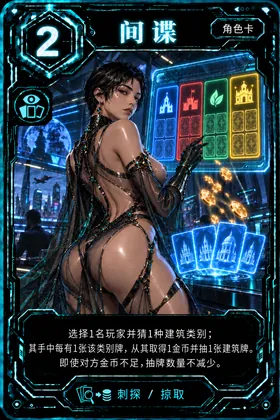
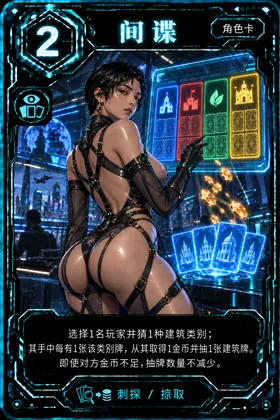
feat(neon): 更新间谍角色卡图

diff --git a/public/app.js b/public/app.js
@@ -4172,7 +4172,7 @@
   window.__CitadelsApp = App;
   // PWA：支持从主屏幕/桌面以独立窗口启动；联机功能仍需网络连接服务器。
   if (typeof navigator !== 'undefined' && navigator.serviceWorker && location.protocol !== 'file:') {
-    navigator.serviceWorker.register('./sw.js?v=14', { scope: './' }).then(registration => {
+    navigator.serviceWorker.register('./sw.js?v=15', { scope: './' }).then(registration => {
       // GitHub Pages 上的 PWA 可能长时间保持旧 worker，启动时主动检查一次新版本。
       registration.update().catch(() => {});
       registration.addEventListener('updatefound', () => {

diff --git a/public/themes/neon/manifest.js b/public/themes/neon/manifest.js
@@ -26,7 +26,7 @@
     // 魔术师恢复为原卡图；
     // 单独版本化，让已安装 PWA 绕过旧图片的 HTTP / Service Worker 缓存。
     const versioned = (folder === 'districts' && key === 'graveyard') ||
-      (folder === 'roles' && (key === 'blackmailer' || key === 'magician' || key === 'wizard' || key === 'bishop'));
+      (folder === 'roles' && (key === 'blackmailer' || key === 'magician' || key === 'wizard' || key === 'bishop' || key === 'spy'));
     const version = folder === 'roles' && key === 'magician'
       ? '?v=3'
       : (folder === 'roles' && key === 'bishop'

diff --git a/test/theme-assets.js b/test/theme-assets.js
@@ -64,6 +64,10 @@ const bishop = manifest.cards.roles.bishop;
 if (!/bishop\.webp\?v=3$/.test(bishop.thumb) || !/bishop\.webp\?v=3$/.test(bishop.full)) {
   throw new Error('主教更新卡图缺少缓存版本标记');
 }
+const spy = manifest.cards.roles.spy;
+if (!/spy\.webp\?v=2$/.test(spy.thumb) || !/spy\.webp\?v=2$/.test(spy.full)) {
+  throw new Error('间谍更新卡图缺少缓存版本标记');
+}
 
 const roleKeys = Object.keys(manifest.cards.roles);
 const districtKeys = Object.keys(manifest.cards.districts);

diff --git a/public/index.html b/public/index.html
@@ -407,7 +407,7 @@
   </div>
 </div>
 
-<script src="./themes/neon/manifest.js?v=9"></script>
+<script src="./themes/neon/manifest.js?v=10"></script>
 <script src="./themes/theme-manager.js?v=2"></script>
 <script src="./src/cards.js?v=4"></script>
 <script src="./src/engine.js?v=16"></script>

diff --git a/public/sw.js b/public/sw.js
@@ -1,4 +1,4 @@
-const CACHE_NAME = 'citadels-shell-v24';
+const CACHE_NAME = 'citadels-shell-v25';
 const APP_SHELL = [
   './', './index.html', './manifest.json', './style.css',
   './themes/neon/theme.css', './themes/neon/manifest.js', './themes/theme-manager.js',
